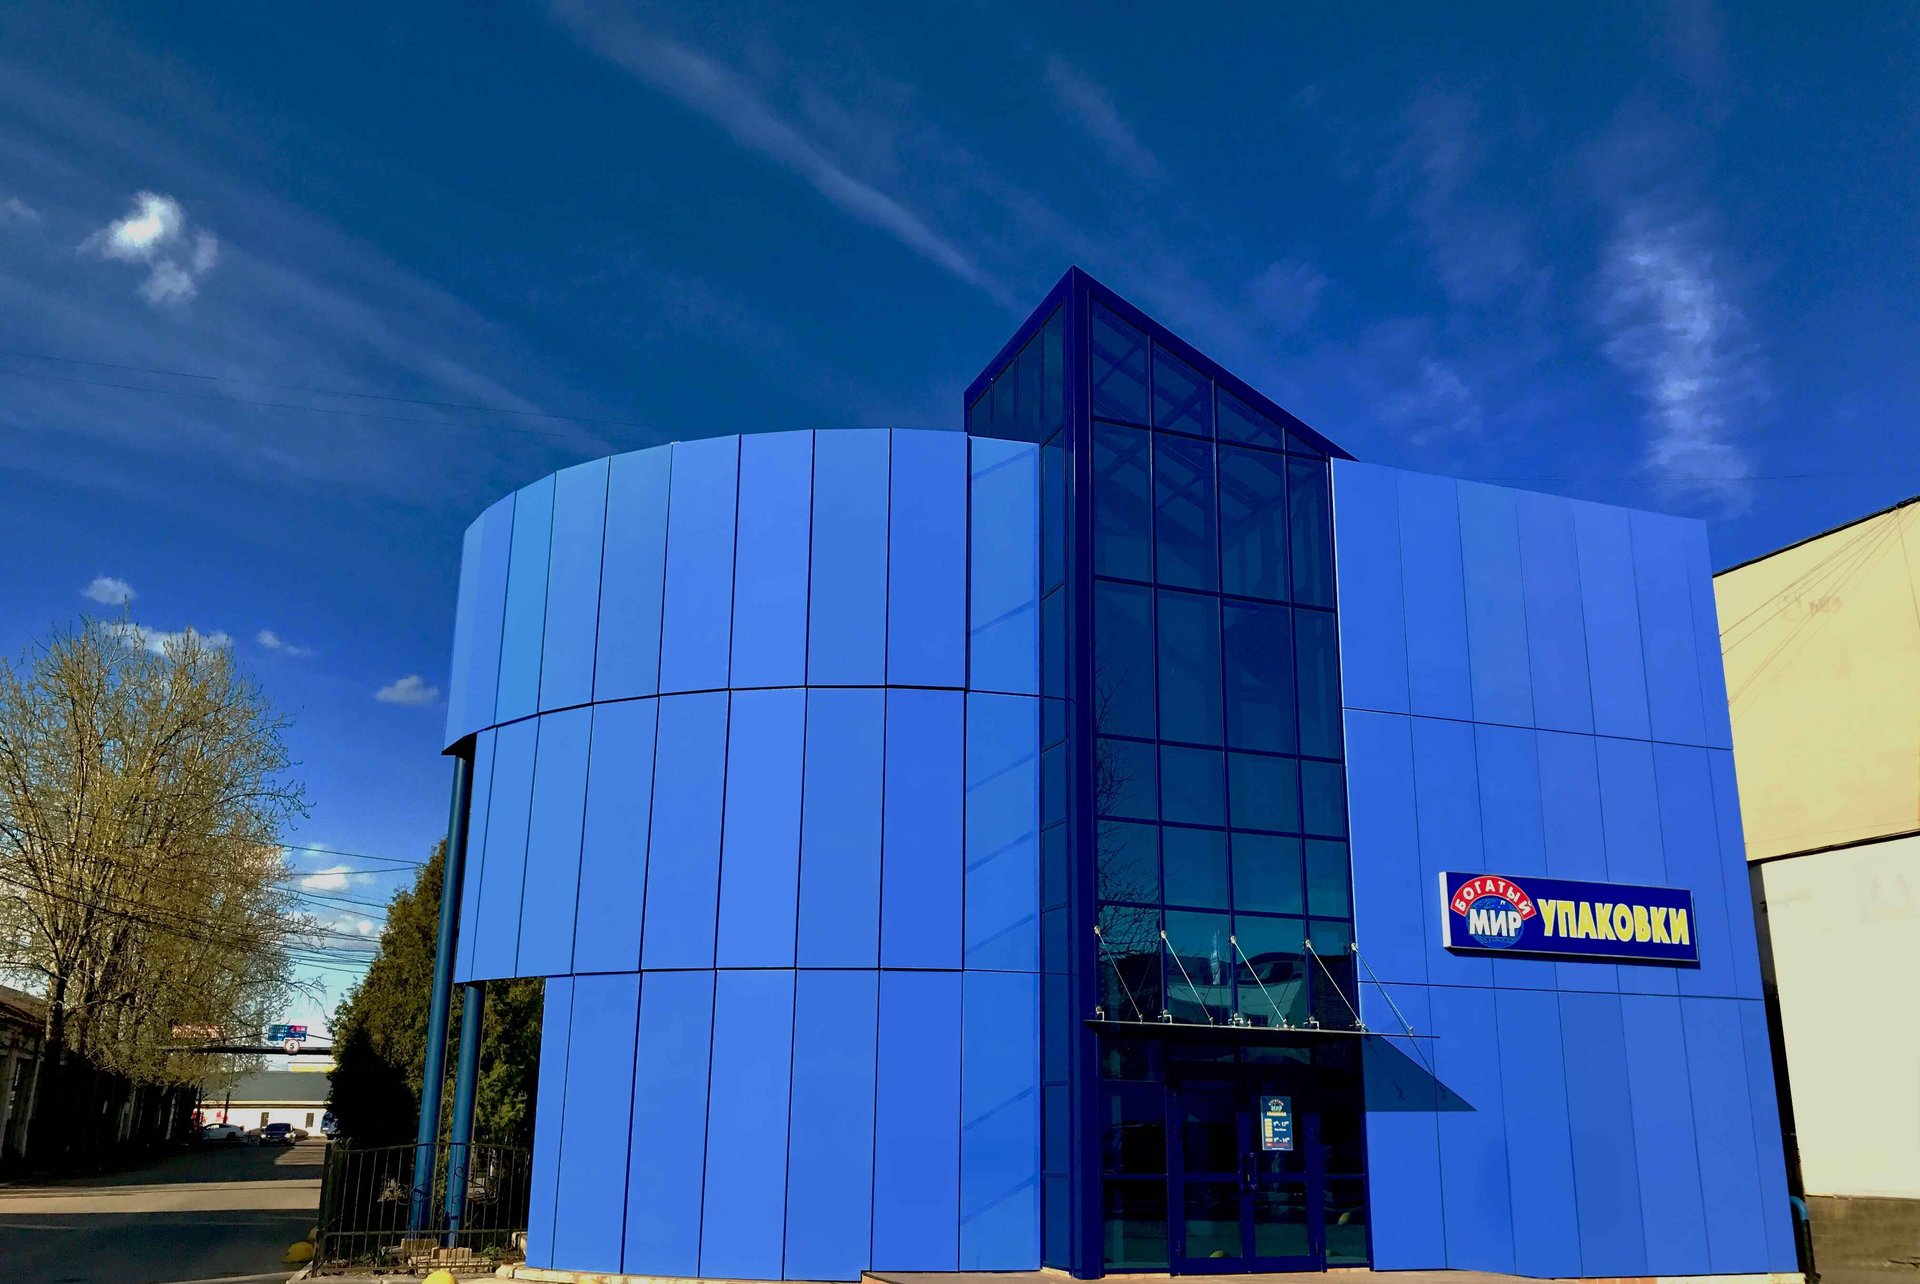
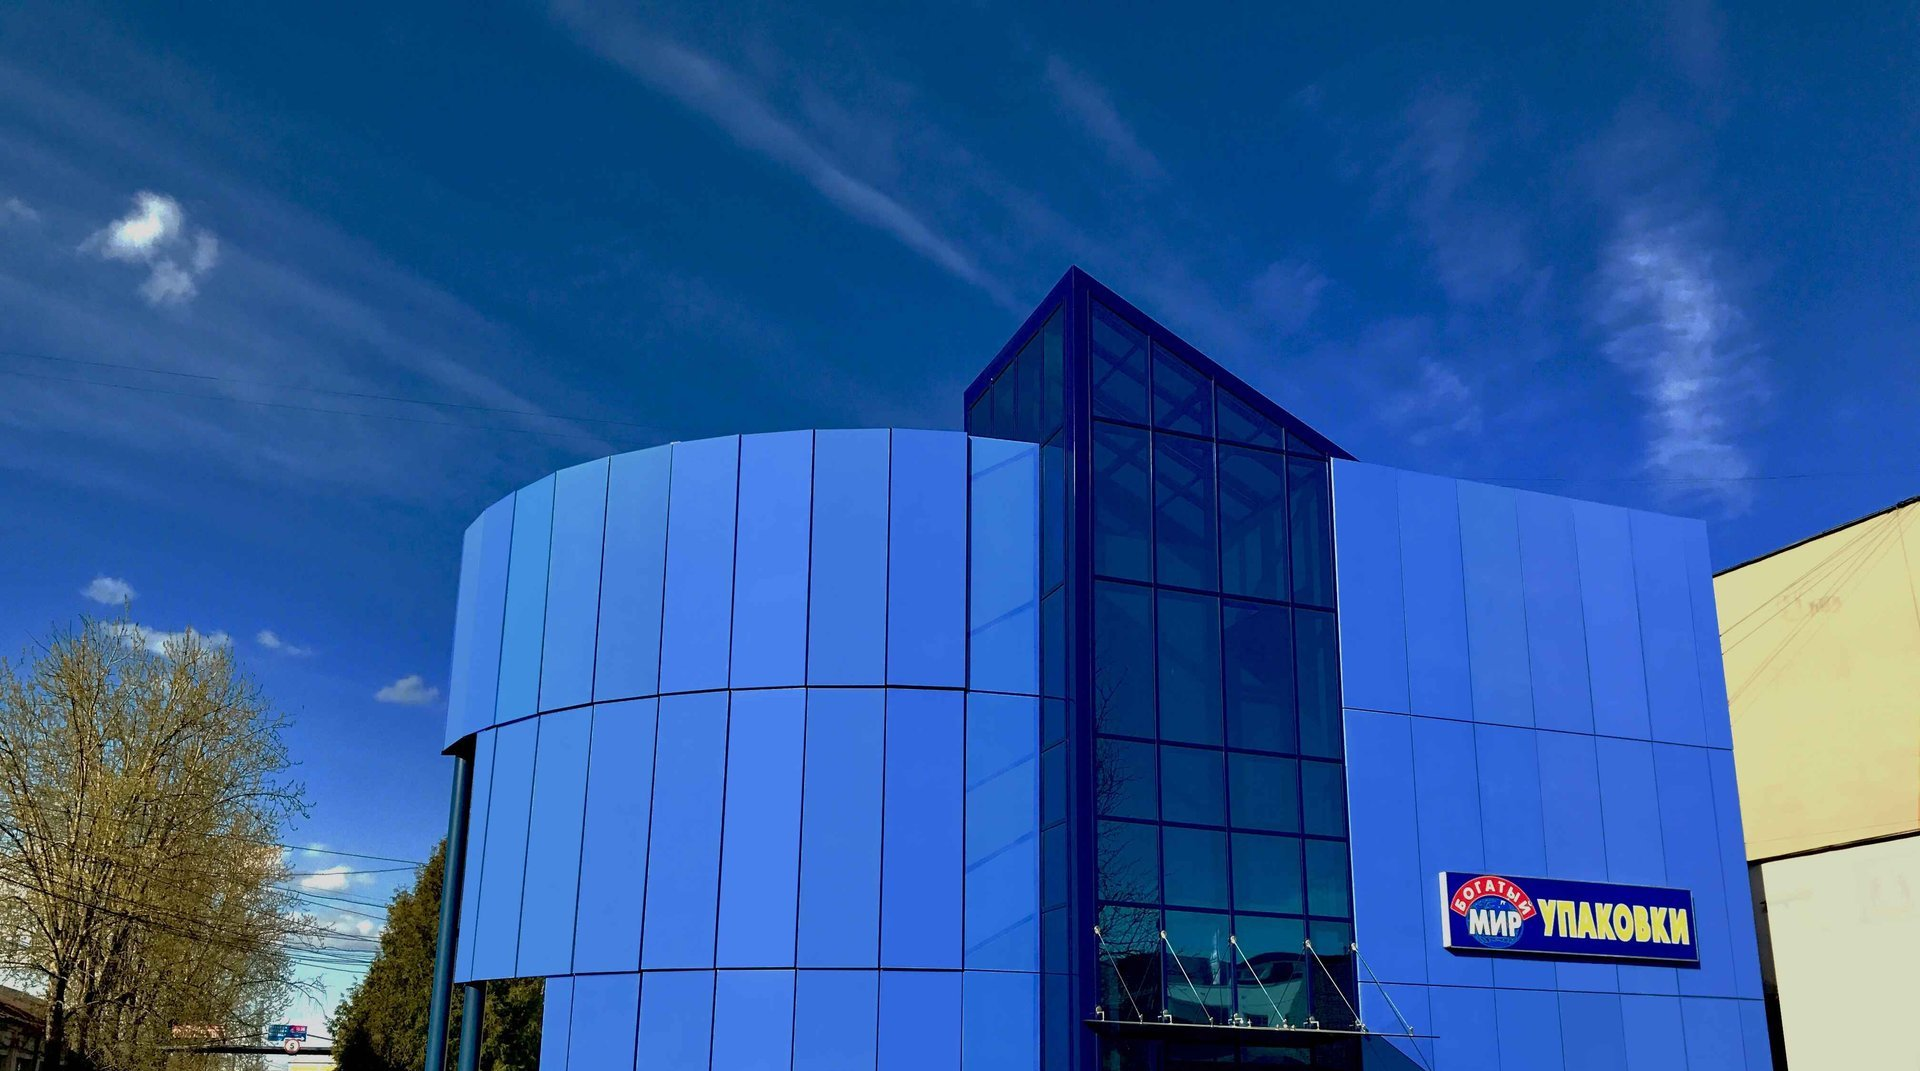
update

diff --git a/src/css/index.sass b/src/css/index.sass
@@ -13,7 +13,7 @@
 .hero-img
   background: url('/images/building.jpg')
   background-repeat: no-repeat
-  background-size: 100%
+  background-size: cover
   background-position: top
   min-height: $hero-height
   text-align: center
